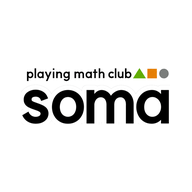
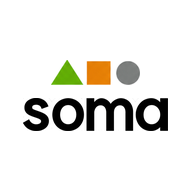
아이콘을 도형 + soma 큰 글자로 변경
Claude-Session: https://claude.ai/code/session_01HXV9ZiSioZh8Ph8EFxG3dM

Changed region(s): [[0.0938, 0.3125, 0.9062, 0.6875]]

diff --git a/index.html b/index.html
@@ -7,9 +7,9 @@
 <meta name="apple-mobile-web-app-capable" content="yes">
 <meta name="apple-mobile-web-app-title" content="소마 상담">
 <meta name="theme-color" content="#ffffff">
-<link rel="manifest" href="manifest.webmanifest">
-<link rel="apple-touch-icon" href="apple-touch-icon.png">
-<link rel="icon" type="image/png" href="favicon.png">
+<link rel="manifest" href="manifest.webmanifest?v=2">
+<link rel="apple-touch-icon" href="apple-touch-icon.png?v=2">
+<link rel="icon" type="image/png" href="favicon.png?v=2">
 <title>소마 상담 스케줄표</title>
 <style>
 :root{
